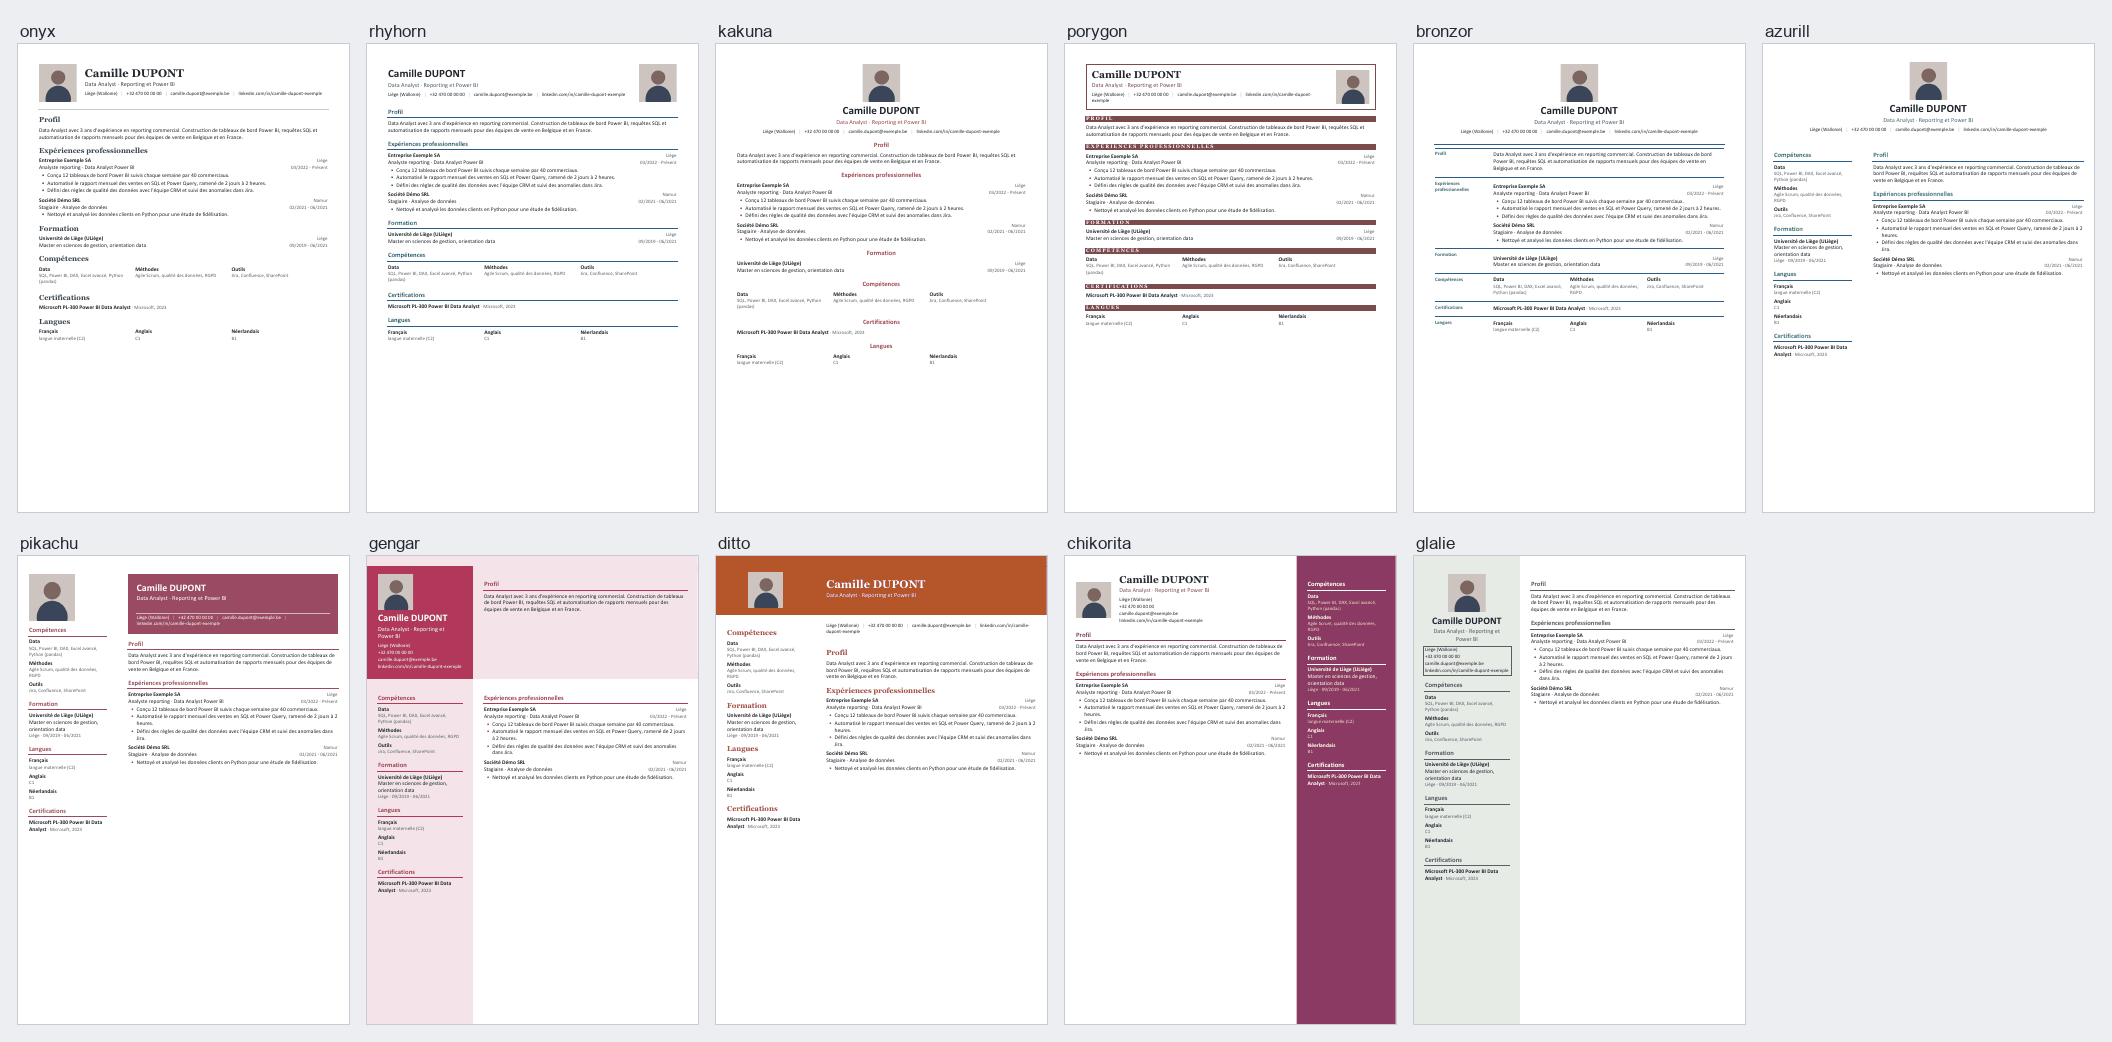
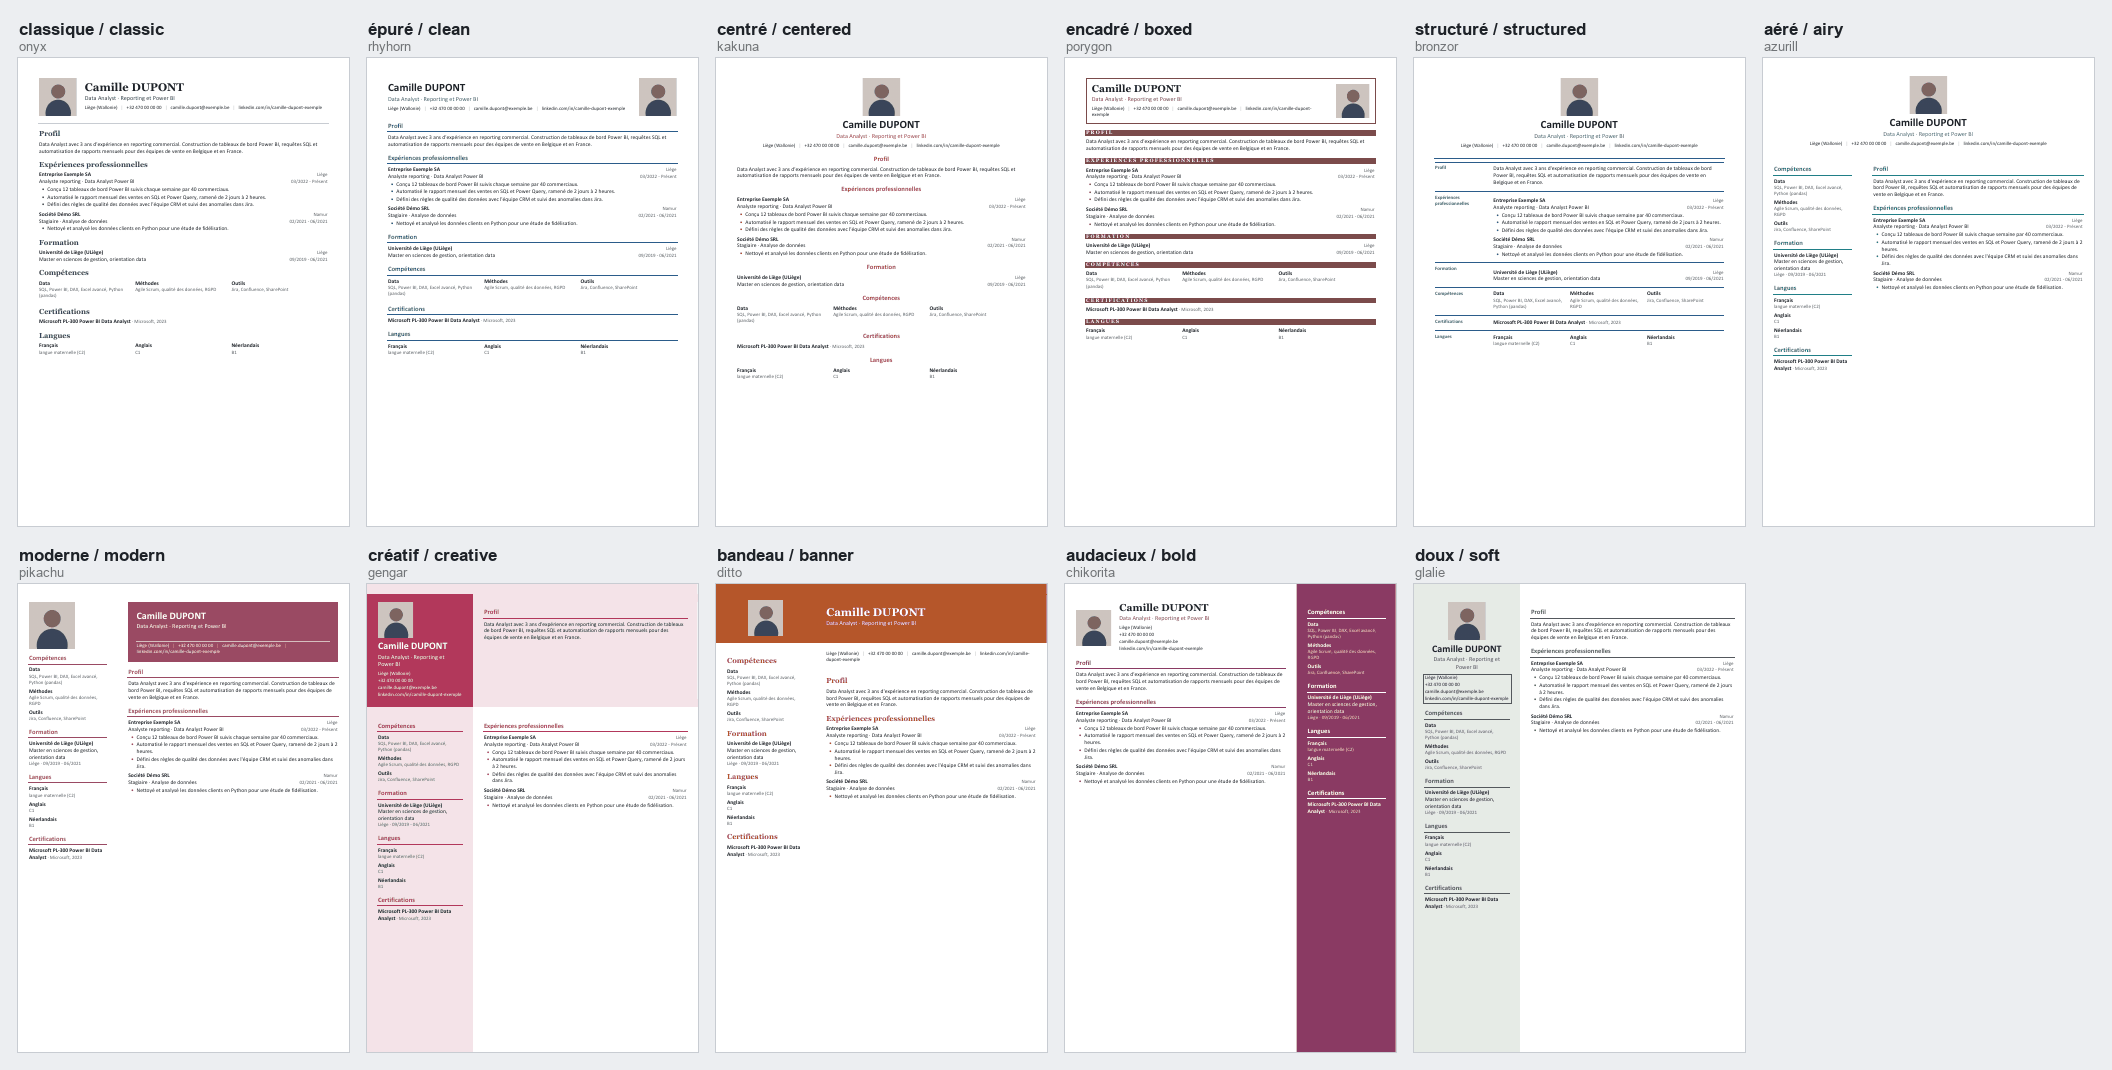
Bilingual README with the preview on top / README bilingue, aperçu en haut
EN: The README now exists in French (README.md) and English (README.en.md),
with a language switch at the top. The template preview and a direct link
to the ready-to-import ZIP open both pages. The preview shows each
template's descriptive name, and the install steps use the release ZIP.

FR : Le README existe maintenant en français (README.md) et en anglais
(README.en.md), avec un lien pour changer de langue en haut. L'aperçu des
modèles et un lien direct vers le ZIP prêt à importer ouvrent les deux
pages. L'aperçu affiche le nom parlant de chaque modèle, et l'installation
passe par le ZIP de la release.

diff --git a/README.md b/README.md
@@ -1,7 +1,14 @@
 # CV ATS francophone · skill Claude
 
+**Français** · [English](README.en.md)
+
 Un skill Claude gratuit pour rédiger un CV **adapté à chaque offre**, **en français ou en anglais**, et **lisible par les logiciels de recrutement (ATS)**, selon les usages des pays francophones : **Belgique, France, Suisse romande, Luxembourg, Québec et Afrique francophone**.
 
+![Les 11 modèles de la version design, avec leur nom parlant et leur nom d'origine](exemples/apercu_modeles.png)
+
+**[Télécharger le skill (ZIP prêt à importer)](https://github.com/melataguia/ats-resume-francophone/releases/latest/download/cv-ats-francophone.zip)** · installation en 2 minutes [ci-dessous](#installation).
+
+## Pourquoi ce skill
 La plupart des skills CV existants suivent les normes américaines ou britanniques. Celui-ci part des réalités francophones : langues au format CECR (essentielles en Belgique, en Suisse et au Luxembourg), photo et date de naissance selon le pays, permis de séjour en Suisse, papier lettre et règles anti-discrimination au Québec, équivalences de diplômes étrangers.
 
 Beaucoup d'entreprises de ces pays (multinationales, institutions européennes, organisations internationales, tech, conseil) demandent un CV en anglais. Le skill le rédige aussi en anglais, en gardant les usages du pays du poste : un CV en anglais pour Genève n'est pas un CV américain.
@@ -19,32 +26,14 @@ Beaucoup d'entreprises de ces pays (multinationales, institutions européennes, 
 
 Il n'invente jamais d'expérience, de diplôme, de chiffre ni de niveau de langue.
 
-## Les modèles de la version design
-![Les 11 modèles de la version design](exemples/apercu_modeles.png)
-
-Une colonne : onyx, rhyhorn, kakuna, porygon, bronzor. Deux colonnes : azurill, pikachu, gengar, ditto, chikorita, glalie. Le skill propose un modèle selon le secteur et le pays (photo attendue en Suisse, à éviter au Québec). La version design ne se dépose jamais sur un portail ATS : c'est la version ATS qui sert pour les portails.
-
-## Exemples
-Profil fictif de Camille DUPONT, Data Analyst à Liège :
-
-| Fichier source | Résultat |
-|---|---|
-| `exemples/cv_content_exemple.json` + `keywords_exemple.txt` | `CV_Camille_DUPONT_Exemple_ATS.pdf` (français) |
-| `exemples/cv_content_example_en.json` + `keywords_example_en.txt` | `CV_Camille_DUPONT_Example_ATS_EN.pdf` (anglais) |
-| `exemples/cv_content_exemple.json` (modèle pikachu) | `CV_Camille_DUPONT_Exemple_Design.pdf` |
-
-Résultats du test :
-```
-Français : MOTS-CLÉS 9/11 (82 %)  · manquants : Tableau, Azure · TEST DE LECTURE ATS : PASSE
-Anglais  : MOTS-CLÉS 10/12 (83 %) · manquants : Tableau, Azure · TEST DE LECTURE ATS : PASSE
-```
-
 ## Installation
 
 ### Claude.ai (web, desktop, mobile)
-1. Téléchargez ce dépôt (bouton **Code → Download ZIP**) et décompressez-le.
-2. Recompressez **uniquement** le dossier `skills/cv-ats-francophone` (le fichier ZIP doit contenir ce dossier, avec `SKILL.md` dedans).
-3. Dans les paramètres de Claude, section **Skills**, importez ce ZIP et activez le skill.
+1. Téléchargez [cv-ats-francophone.zip](https://github.com/melataguia/ats-resume-francophone/releases/latest/download/cv-ats-francophone.zip), le ZIP de la dernière version.
+2. Dans les paramètres de Claude, vérifiez que l'exécution de code est activée, puis, dans la section **Skills**, importez le ZIP tel quel, sans le décompresser.
+3. Activez le skill.
+
+Toutes les versions et leurs nouveautés : [Releases](https://github.com/melataguia/ats-resume-francophone/releases).
 
 ### Claude Code
 ```bash
@@ -59,14 +48,45 @@ Joignez votre CV actuel (ou remplissez une fois `references/profil_modele.md`), 
 - « Mon CV passe-t-il les ATS ? Voici le lien de l'offre. »
 - « Fais-moi un CV pour cette offre à Genève et la lettre de motivation. »
 - « Cette entreprise de Luxembourg demande un CV en anglais : fais-le. »
-- « Fais aussi une version design avec le modèle gengar. »
-- « Tailor my CV to this job in Brussels, in English. »
+- « Fais aussi une version design avec le modèle créatif. »
 
 Conseil : gardez votre profil complet dans un fichier. Le skill choisit à chaque fois ce qui sert pour l'offre, dans la langue demandée.
 
+## Les modèles de la version design
+Le skill propose un modèle selon le secteur et le pays (photo attendue en Suisse, à éviter au Québec). Vous pouvez aussi le choisir par son nom, parlant ou d'origine :
+
+| Nom | Nom d'origine | Mise en page | Pour qui |
+|---|---|---|---|
+| classique | onyx | 1 colonne | Banque, finance, audit, juridique, secteur public |
+| épuré | rhyhorn | 1 colonne | Tech, data, ingénierie, conseil |
+| centré | kakuna | 1 colonne | Profils juniors, enseignement, santé |
+| encadré | porygon | 1 colonne | Hôtellerie, commerce, logistique |
+| structuré | bronzor | 1 colonne | Profils seniors, institutions, CV de 2 pages |
+| aéré | azurill | 2 colonnes | Tech, produit, gestion de projet |
+| moderne | pikachu | 2 colonnes | Conseil, RH, formation |
+| créatif | gengar | 2 colonnes | Marketing, communication, vente |
+| bandeau | ditto | 2 colonnes | Architecture, design, métiers créatifs |
+| audacieux | chikorita | 2 colonnes | Marketing, marque, événementiel |
+| doux | glalie | 2 colonnes | Environnement, ONG, secteur associatif |
+
+La version design ne se dépose jamais sur un portail ATS : c'est la version ATS qui sert pour les portails.
+
+## Exemples
+Profil fictif de Camille DUPONT, Data Analyst à Liège :
+
+| Fichier source | Résultat |
+|---|---|
+| `exemples/cv_content_exemple.json` + `keywords_exemple.txt` | `CV_Camille_DUPONT_Exemple_ATS.pdf` (français) |
+| `exemples/cv_content_example_en.json` + `keywords_example_en.txt` | `CV_Camille_DUPONT_Example_ATS_EN.pdf` (anglais) |
+| `exemples/cv_content_exemple.json` (modèle moderne) | `CV_Camille_DUPONT_Exemple_Design.pdf` |
+
+Résultats du test :
+- CV en français : mots-clés 9/11 (82 %), il manque Tableau et Azure, test de lecture ATS réussi.
+- CV en anglais : mots-clés 10/12 (83 %), il manque Tableau et Azure, test de lecture ATS réussi.
+
 ## Contenu
 ```
-skills/cv-ats-francophone/
+skills/cv-ats-francophone/        le skill (c'est ce dossier que contient le ZIP)
 ├── SKILL.md                      instructions pour Claude
 ├── references/
 │   ├── ats_rules.md              règles ATS, détection de l'ATS, mots-clés, format du contenu
@@ -79,11 +99,13 @@ skills/cv-ats-francophone/
     ├── build_design_cv.js        construit la version design (.docx) sur un modèle
     └── ats_check.py              test de lecture ATS + score de mots-clés
 exemples/                         profil fictif en français et en anglais, mots-clés, CV générés, aperçu des modèles
+.github/                          formulaire « Usage d'un pays à corriger » et publication automatique des versions
 ```
 
 ## Contribuer
-Les usages évoluent et varient selon les secteurs. Vous recrutez au Sénégal, au Maroc, en Côte d'Ivoire, à Genève ou à Montréal et vous voyez une règle à corriger ou à ajouter ? Ouvrez une *issue* ou une *pull request* sur `references/pays_francophones.md`, avec une source si possible.
-Vous avez vu un ATS mal lire un CV produit par ce skill ? Décrivez le cas (sans données personnelles) dans une *issue*.
+Les usages évoluent et varient selon les secteurs. Vous recrutez au Sénégal, au Cameroun, en Côte d'Ivoire, à Genève ou à Montréal et vous voyez une règle à corriger ou à ajouter ? [Signalez un usage d'un pays à corriger](https://github.com/melataguia/ats-resume-francophone/issues/new?template=usage-pays.yml) : un court formulaire, en français ou en anglais. Les *pull requests* sur `references/pays_francophones.md` sont aussi les bienvenues, avec une source si possible.
+
+Vous avez vu un ATS mal lire un CV produit par ce skill ? Décrivez le cas, sans données personnelles, dans une [issue](https://github.com/melataguia/ats-resume-francophone/issues/new).
 
 ## Avertissement
 Ce skill aide à présenter un parcours réel de façon claire. Il ne garantit pas un entretien : les ATS et les recruteurs ont chacun leurs critères. Les usages par pays sont des pratiques courantes, pas des règles légales, sauf mention contraire.
@@ -93,8 +115,3 @@ Les mises en page de la version design reprennent celles des modèles de [Reacti
 
 ## Auteur
 Créé par **Bidias Melataguia**, fondateur de The Analyst. Licence MIT : libre d'utilisation, de modification et de partage.
-
-## In English
-A free Claude skill that tailors a CV to each job offer, **in French or in English**, and makes it readable by applicant tracking systems (ATS), following the CV conventions of French-speaking countries: Belgium, France, French-speaking Switzerland, Luxembourg, Quebec and francophone Africa. Many employers there (multinationals, EU institutions, international organisations) ask for an English CV: the skill writes it in English while keeping the conventions of the job's country (CEFR language levels, photo rules, Swiss residence permit, letter paper in Quebec), and translates job and degree titles faithfully, with the original degree title in brackets.
-
-It detects the company's ATS from the job link, extracts the offer's keywords and uses them only when they are true, builds an ATS-safe CV in Word and PDF plus an optional designed version (11 layouts inspired by Reactive Resume), tests how an ATS reads it and scores keyword coverage. It never invents experience, degrees, figures or language levels. English example: `exemples/cv_content_example_en.json` gives `exemples/CV_Camille_DUPONT_Example_ATS_EN.pdf` (keywords 10/12, ATS read test passed). Installation: same steps as above.

diff --git a/README.en.md b/README.en.md
@@ -1,0 +1,118 @@
+# CV ATS francophone · Claude skill
+
+[Français](README.md) · **English**
+
+A free Claude skill that writes a CV **tailored to each job offer**, **in French or English**, and **readable by applicant tracking systems (ATS)**, following the CV practices of French-speaking countries: **Belgium, France, French-speaking Switzerland, Luxembourg, Quebec and francophone Africa**.
+
+![The 11 templates of the designed version, with their descriptive and original names](exemples/apercu_modeles.png)
+
+**[Download the skill (ready-to-import ZIP)](https://github.com/melataguia/ats-resume-francophone/releases/latest/download/cv-ats-francophone.zip)** · 2-minute setup [below](#installation).
+
+## Why this skill
+Most CV skills follow US or UK norms. This one starts from the realities of French-speaking countries: CEFR language levels (essential in Belgium, Switzerland and Luxembourg), photo and date of birth depending on the country, Swiss residence permits, letter-size paper and anti-discrimination rules in Quebec, equivalences for foreign degrees.
+
+Many employers in these countries (multinationals, EU institutions, international organisations, tech, consulting) ask for an English CV. The skill writes it in English too, while keeping the practices of the job's country: an English CV for Geneva is not an American resume.
+
+## What it does
+1. **Gives an honest assessment** of how your profile fits the offer (percentage, strengths, gaps, recommendation).
+2. **Detects the company's ATS** from the job link (Workday, SmartRecruiters, Taleo, iCIMS, Greenhouse, Lever, Teamtailor, Recruitee, SuccessFactors...) and applies its rules.
+3. **Chooses the CV language**: the one the employer asks for, otherwise the offer's language. In English, it translates job and degree titles faithfully (original degree title in brackets), contract types and places.
+4. **Extracts the offer's keywords** and uses them in your CV, **only when they are true**.
+5. **Builds an ATS CV** in Word (.docx) and text PDF: one column, no tables, no text boxes, dates as MM/YYYY.
+6. **Builds a designed version** (optional) on 11 templates inspired by [Reactive Resume](https://rxresu.me), to send by e-mail or bring to an interview.
+7. **Tests how an ATS reads the CV**: name, e-mail, phone, every job, every company, every date. If something fails, it fixes it before delivering.
+8. **Gives a keyword score** (for example 10/12, 83 %) and an honest list of what is missing.
+9. Writes the **cover letter** on request, in French or English.
+
+It never invents experience, degrees, figures or language levels.
+
+## Installation
+
+### Claude.ai (web, desktop, mobile)
+1. Download [cv-ats-francophone.zip](https://github.com/melataguia/ats-resume-francophone/releases/latest/download/cv-ats-francophone.zip), the ZIP of the latest version.
+2. In Claude's settings, check that code execution is turned on, then, in the **Skills** section, upload the ZIP as is, without unzipping it.
+3. Turn the skill on.
+
+All versions and what changed: [Releases](https://github.com/melataguia/ats-resume-francophone/releases).
+
+### Claude Code
+```bash
+git clone https://github.com/melataguia/ats-resume-francophone.git
+cp -r ats-resume-francophone/skills/cv-ats-francophone ~/.claude/skills/
+```
+Script requirements: Node.js (with the `docx` package, installed by the skill when needed), Python 3 with `python-docx`, poppler (`pdftotext`) to test a PDF, and LibreOffice or Word to export PDFs (optional).
+
+## Usage
+Attach your current CV (or fill in `references/profil_modele.md` once), paste the job offer or its link, and ask, for example:
+- "Tailor my CV to this job in Brussels, in English."
+- "Will my CV get through the ATS? Here is the link to the offer."
+- "Write a CV and a cover letter for this job in Geneva."
+- "This company in Luxembourg wants an English CV: write it."
+- "Also make a designed version with the creative template."
+
+Tip: keep your full profile in one file. The skill picks what matters for each offer, in the language you need.
+
+## Designed version templates
+The skill suggests a template based on the sector and the country (a photo is expected in Switzerland and avoided in Quebec). You can also pick one by name, descriptive or original:
+
+| Name | Original name | Layout | Good for |
+|---|---|---|---|
+| classic | onyx | 1 column | Banking, finance, audit, legal, public sector |
+| clean | rhyhorn | 1 column | Tech, data, engineering, consulting |
+| centered | kakuna | 1 column | Junior profiles, teaching, healthcare |
+| boxed | porygon | 1 column | Hospitality, retail, logistics |
+| structured | bronzor | 1 column | Senior profiles, institutions, 2-page CVs |
+| airy | azurill | 2 columns | Tech, product, project management |
+| modern | pikachu | 2 columns | Consulting, HR, training |
+| creative | gengar | 2 columns | Marketing, communication, sales |
+| banner | ditto | 2 columns | Architecture, design, creative jobs |
+| bold | chikorita | 2 columns | Marketing, branding, events |
+| soft | glalie | 2 columns | Environment, NGOs, non-profit |
+
+Never upload the designed version to an ATS portal: portals get the ATS version.
+
+## Examples
+Fictitious profile of Camille DUPONT, Data Analyst in Liège:
+
+| Source file | Result |
+|---|---|
+| `exemples/cv_content_exemple.json` + `keywords_exemple.txt` | `CV_Camille_DUPONT_Exemple_ATS.pdf` (French) |
+| `exemples/cv_content_example_en.json` + `keywords_example_en.txt` | `CV_Camille_DUPONT_Example_ATS_EN.pdf` (English) |
+| `exemples/cv_content_exemple.json` (modern template) | `CV_Camille_DUPONT_Exemple_Design.pdf` |
+
+Test results:
+- French CV: keywords 9/11 (82 %), missing Tableau and Azure, ATS read test passed.
+- English CV: keywords 10/12 (83 %), missing Tableau and Azure, ATS read test passed.
+
+## Contents
+```
+skills/cv-ats-francophone/        the skill (this is the folder inside the ZIP)
+├── SKILL.md                      instructions for Claude
+├── references/
+│   ├── ats_rules.md              ATS rules, ATS detection, keywords, content format
+│   ├── pays_francophones.md      CV practices by country, and English CVs in these countries
+│   ├── style_redaction.md        writing style in French and English, filler words to avoid, job titles
+│   ├── modeles_design.md         the 11 designed-version templates and how to choose
+│   └── profil_modele.md          full profile template
+└── scripts/
+    ├── build_ats_cv.js           builds the ATS CV (.docx)
+    ├── build_design_cv.js        builds the designed version (.docx) on a template
+    └── ats_check.py              ATS read test + keyword score
+exemples/                         fictitious profile in French and English, keywords, generated CVs, template preview
+.github/                          "Country practice to fix" issue form and automatic releases
+```
+The skill's instructions and reference files are written in French; Claude follows them in any language and answers in yours.
+
+## Contributing
+Practices change and vary by sector. Do you recruit in Senegal, Cameroon, Ivory Coast, Geneva or Montreal and see a rule to fix or add? [Report a country practice to fix](https://github.com/melataguia/ats-resume-francophone/issues/new?template=usage-pays.yml): a short form, in French or English. Pull requests on `references/pays_francophones.md` are welcome too, with a source if possible.
+
+Did you see an ATS misread a CV made with this skill? Describe the case, without personal data, in an [issue](https://github.com/melataguia/ats-resume-francophone/issues/new).
+
+## Disclaimer
+This skill helps present a real career clearly. It does not guarantee an interview: ATS tools and recruiters each have their own criteria. Country practices are common practice, not legal rules, unless stated otherwise.
+
+## Credits
+The designed version's layouts follow the templates of [Reactive Resume](https://rxresu.me) by Amruth Pillai (MIT licence). The code in this repository is written for Word and does not reuse Reactive Resume's code.
+
+## Author
+Made by **Bidias Melataguia**, founder of The Analyst. MIT licence: free to use, modify and share.
